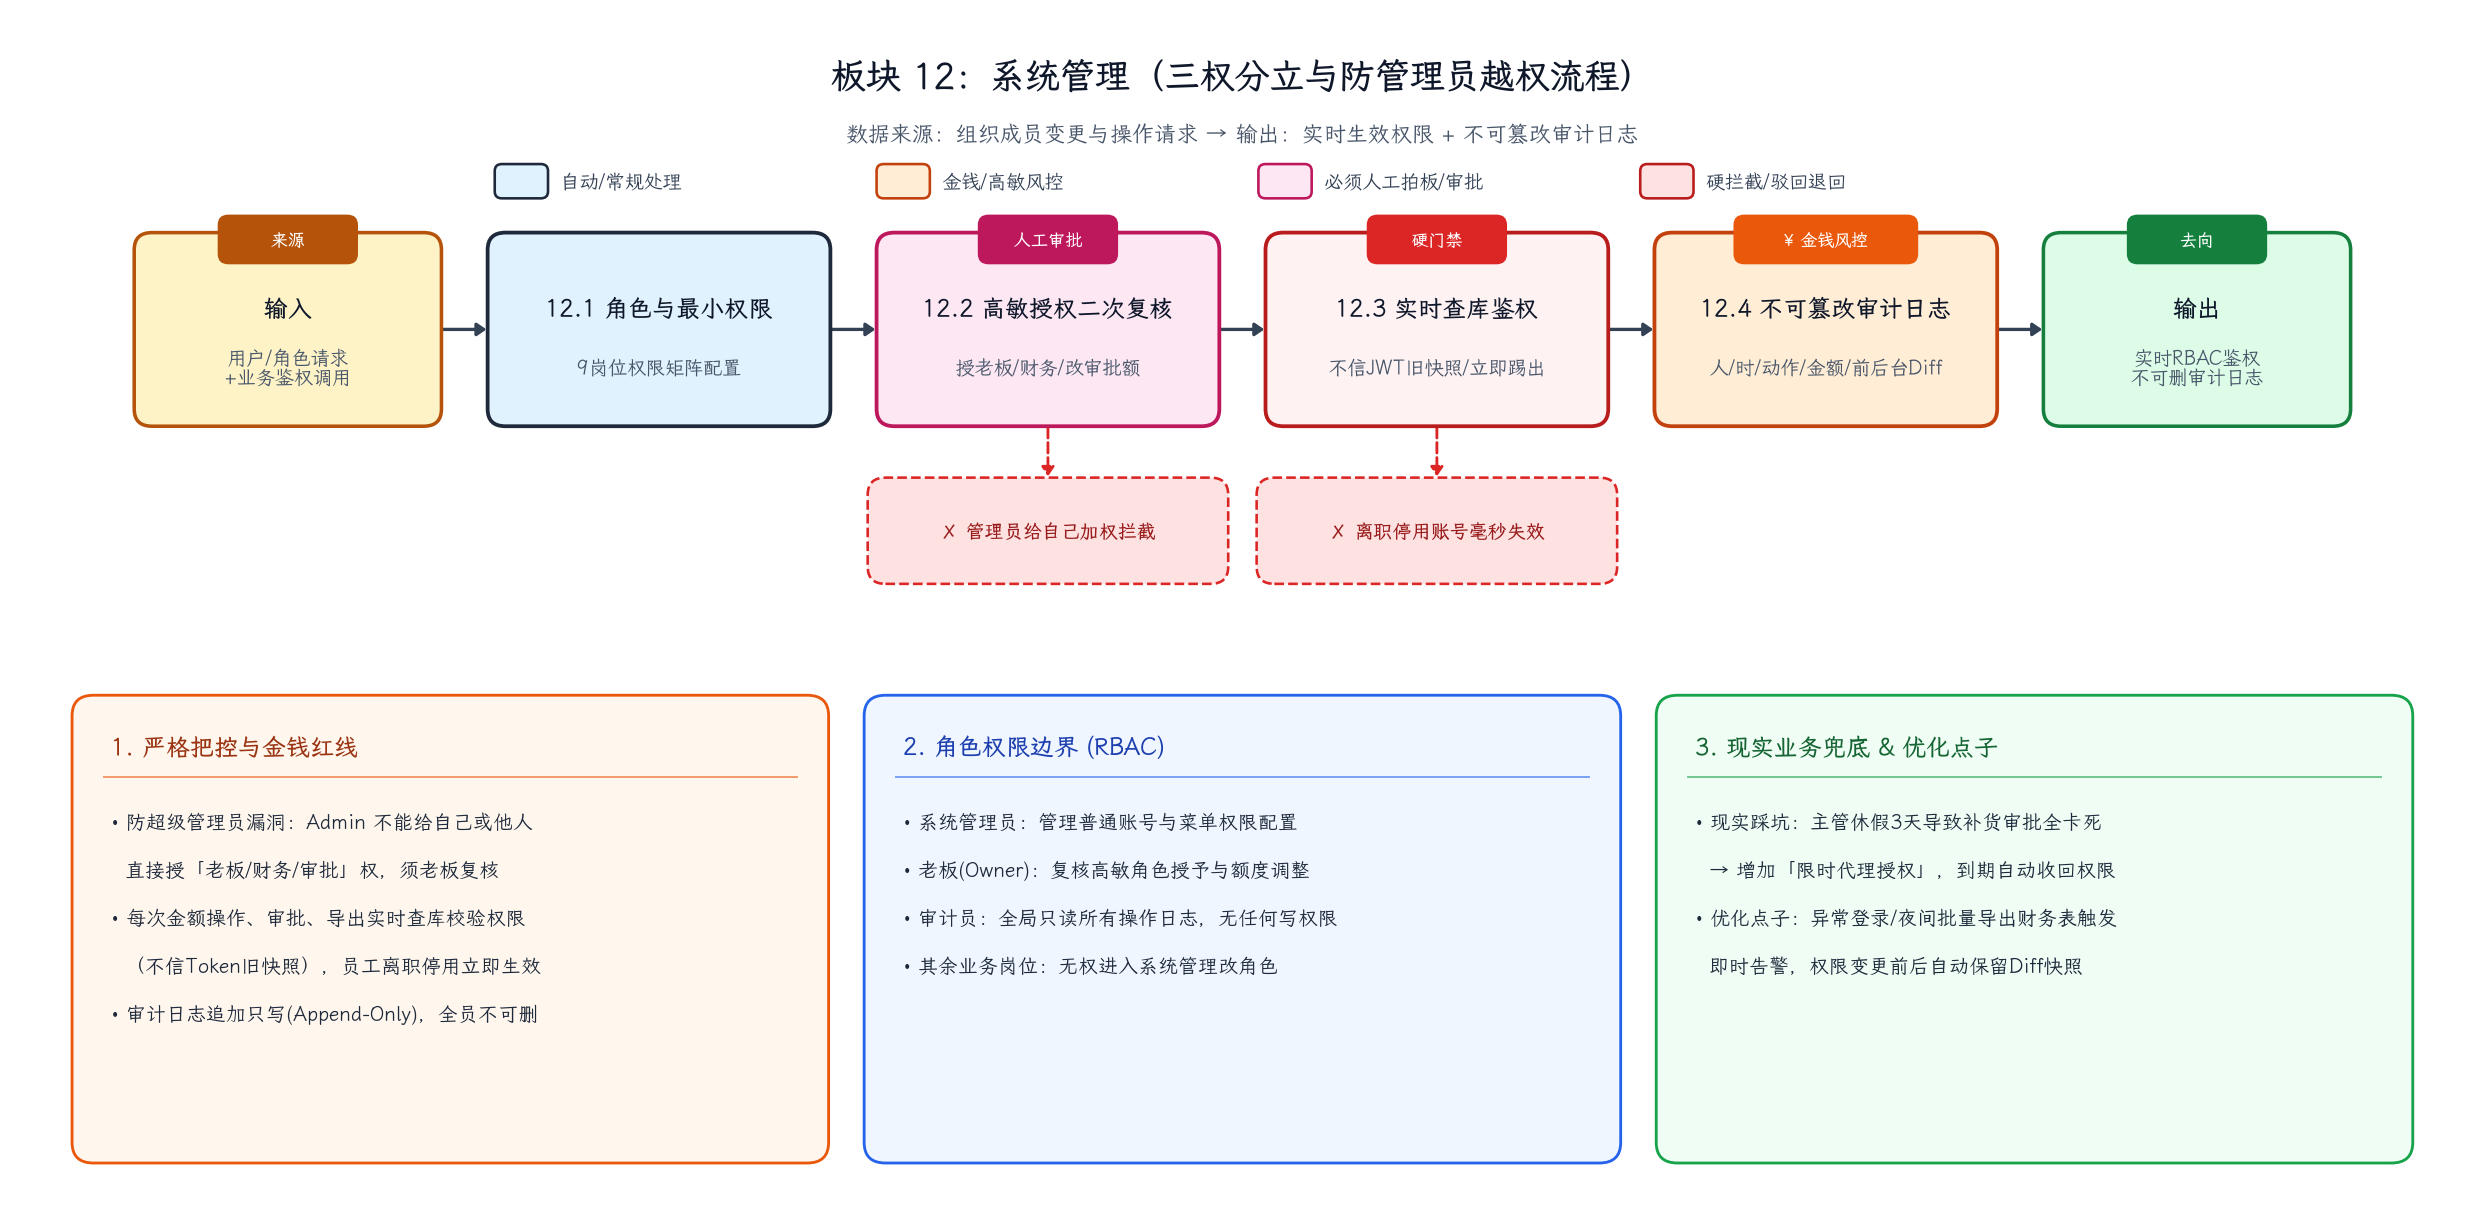
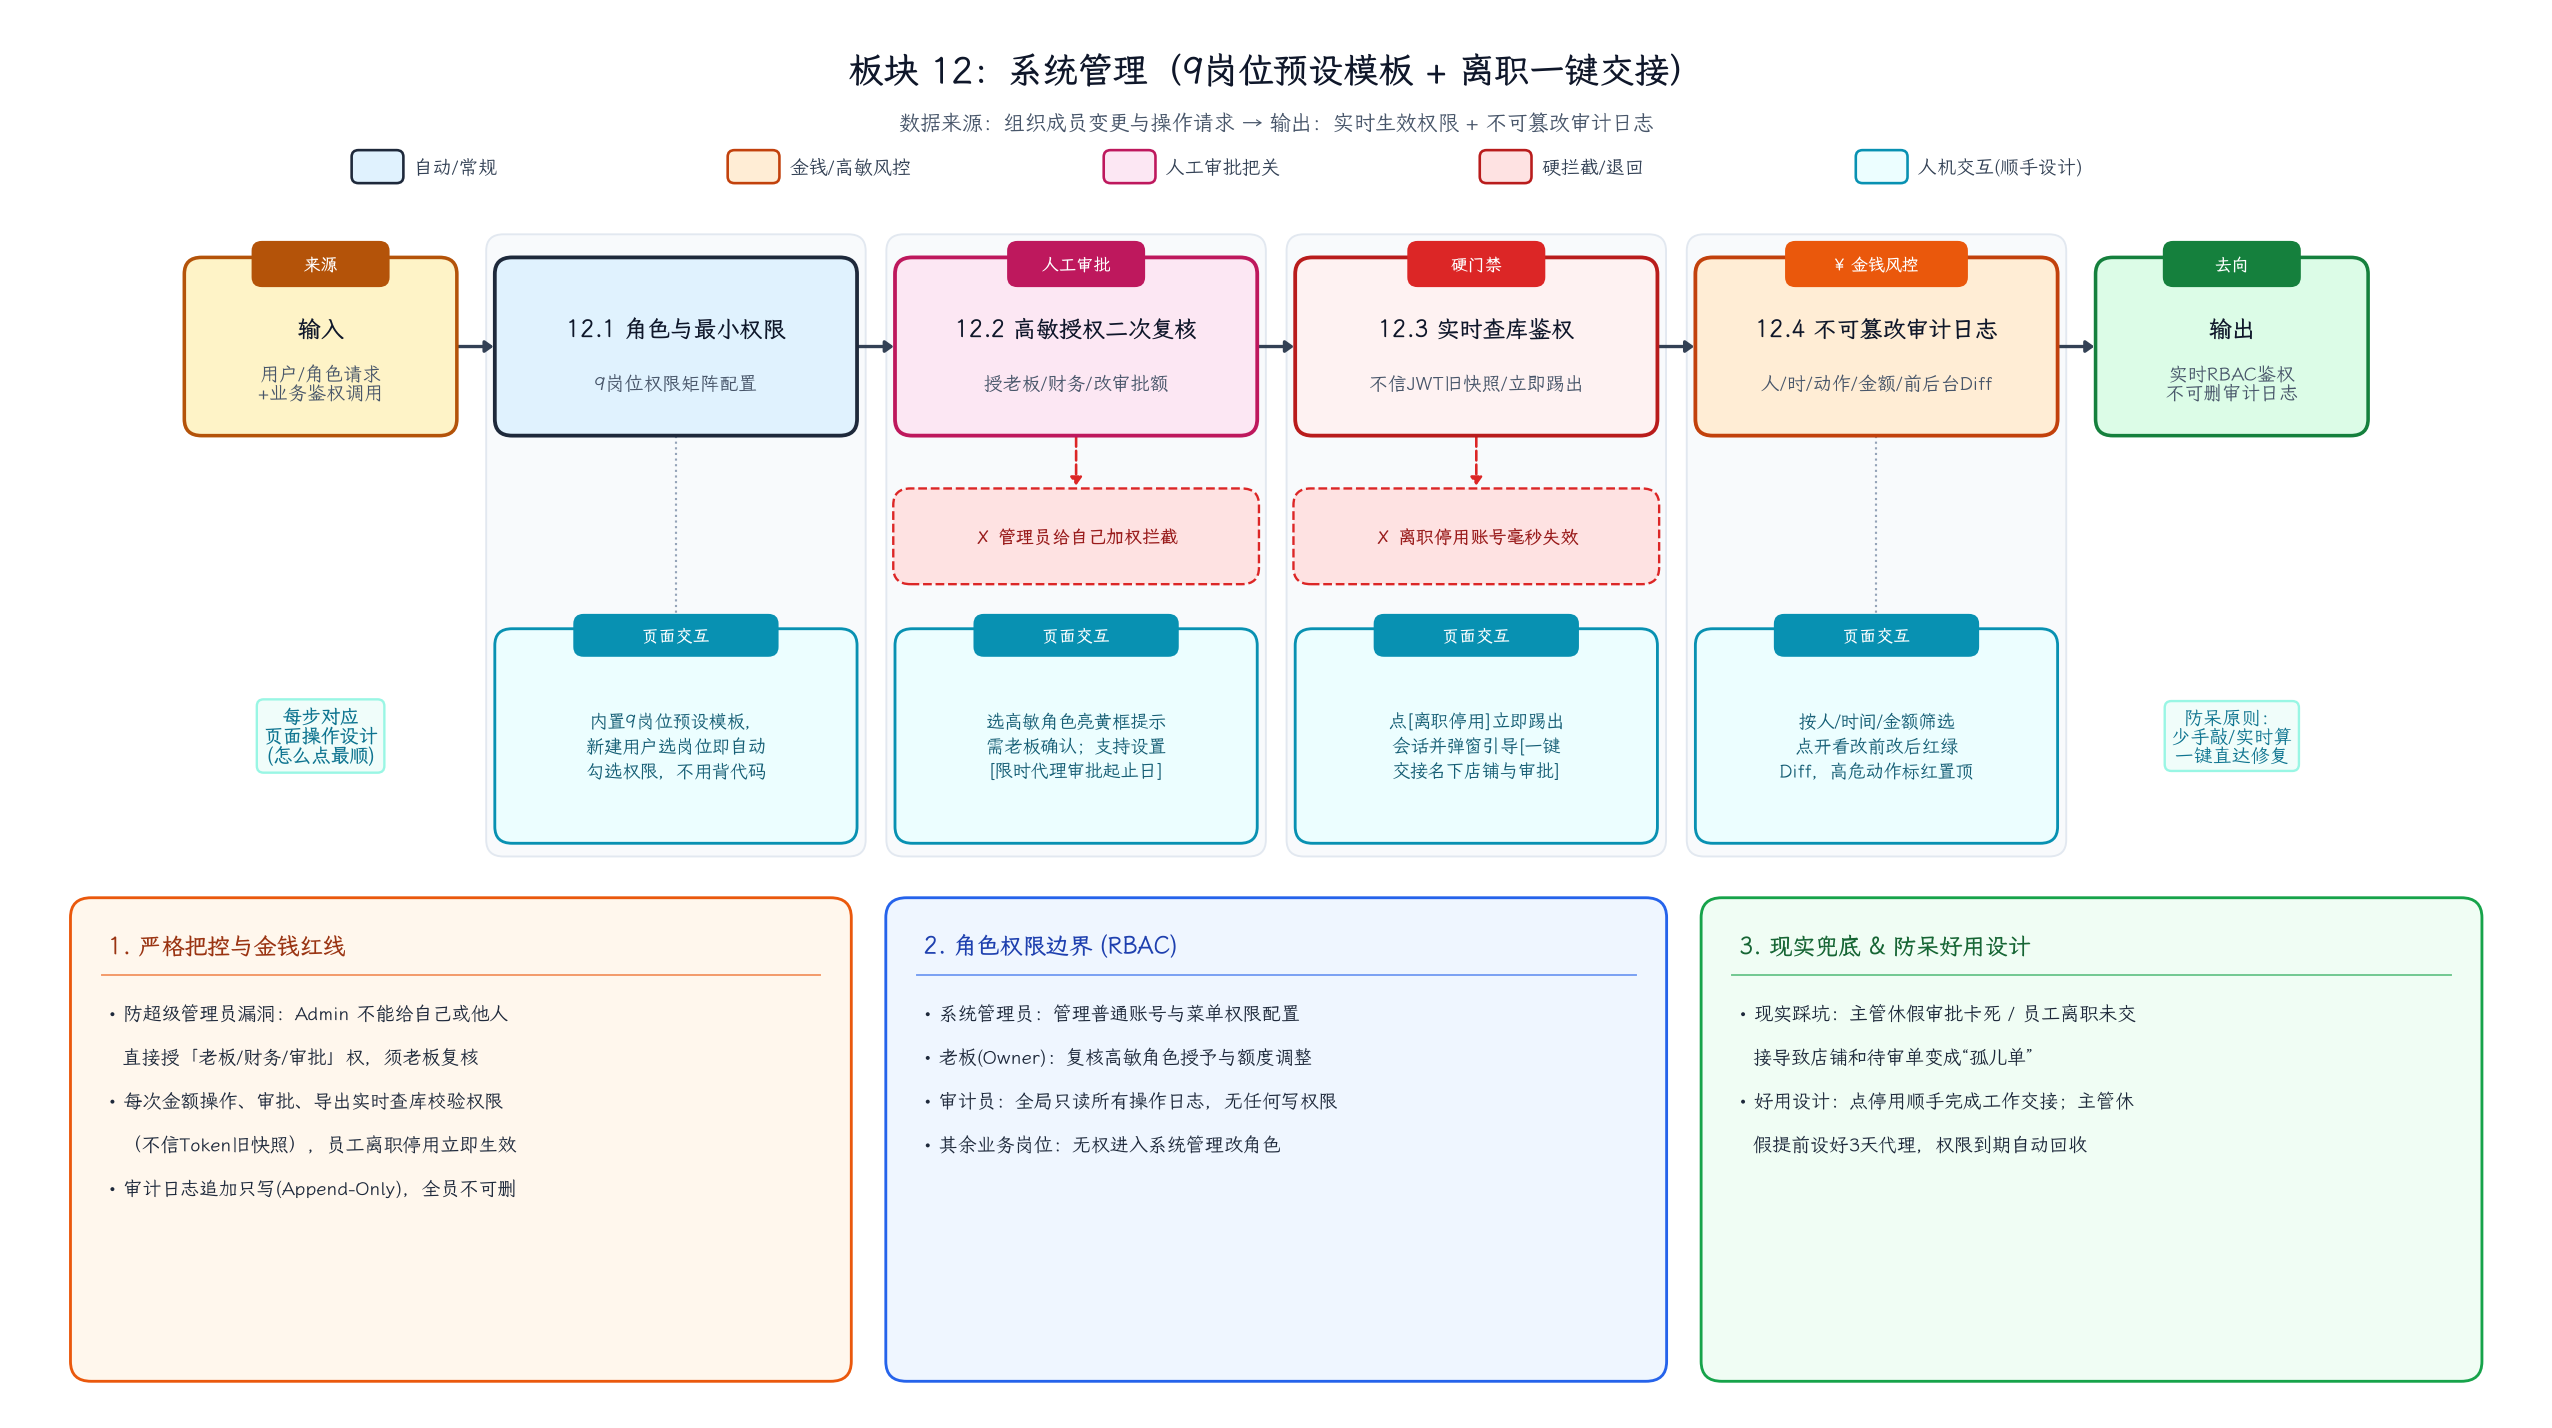
docs: 加入人机交互与防呆设计的全板块流程图（15张PNG）
- 新增 m14_ux_principles.png：六大顺手交互与防呆原则
- 升级 m01~m13：每一步下方直接对应给出「页面交互」怎么点最顺手
- 保持金钱风控、人工审批、硬拦截退回、9角色权限与现实兜底

diff --git a/docs/prototypes/strict-rbac-and-controls.md b/docs/prototypes/strict-rbac-and-controls.md
@@ -1,7 +1,7 @@
 # 严格业务风控、9角色权限矩阵与现实优化设计（V2）
 
-> 对应流程图目录：`docs/prototypes/modules/`（`m00_rbac_matrix.png` + `m01_shop.png` ~ `m13_kb.png`，共 14 张 PNG）  
-> 设计原则：**凡涉金钱与对外发布必设人工审批门禁、提案与审批强制分离（SoD）、管理权与资金权分离、未知不填零、全链路不可篡改审计**。
+> 对应流程图目录：`docs/prototypes/modules/`（`m00_rbac_matrix.png` + `m01_shop.png` ~ `m13_kb.png` + `m14_ux_principles.png`，共 15 张 PNG）  
+> 设计原则：**凡涉金钱与对外发布必设人工审批门禁、提案与审批强制分离（SoD）、管理权与资金权分离、未知不填零、全链路不可篡改审计；同时「把麻烦留给系统预检，把直观和一键决策留给人」**。
 
 ---
 
